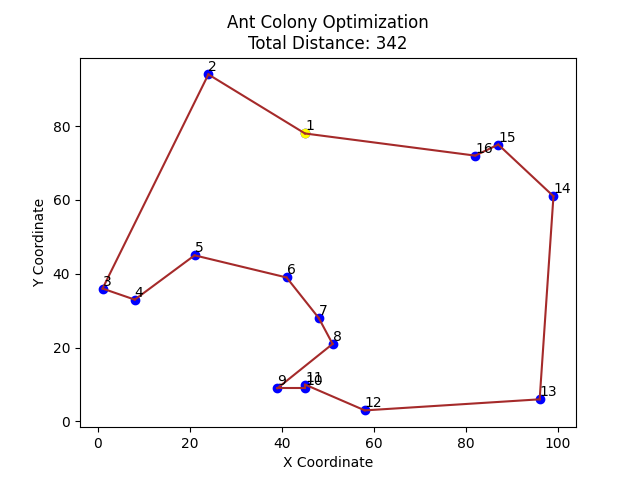
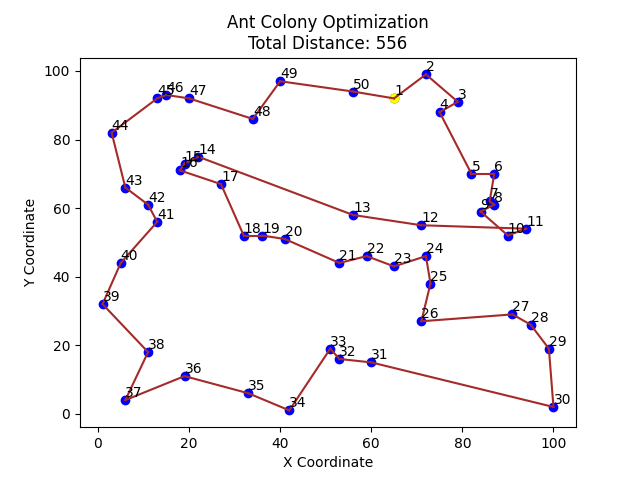
fix: presentation

diff --git a/AI_code/compare.py b/AI_code/compare.py
@@ -105,14 +105,14 @@ if __name__ == '__main__':
     # #[0, 6, 14, 2, 10, 5, 4, 9, 15, 16, 17, 19, 11, 7, 13, 3, 1, 18, 8, 12, 0]
 
     start_city = 0
-    num_coordinate = 16
+    num_coordinate = 50
     coordinates = coordinate.generate_coordinates(num_coordinate)
 
     alpha = 1
     beta = 1
     evaporation_rate = 0.5
     quality_factor = 10
-    iterations = 100
+    iterations = 1000
 
     min_cost, best_path = aco.ant_colony_optimization(alpha, beta, evaporation_rate, quality_factor, iterations, start_city, coordinates)
     print('TSP using ACO result:')
